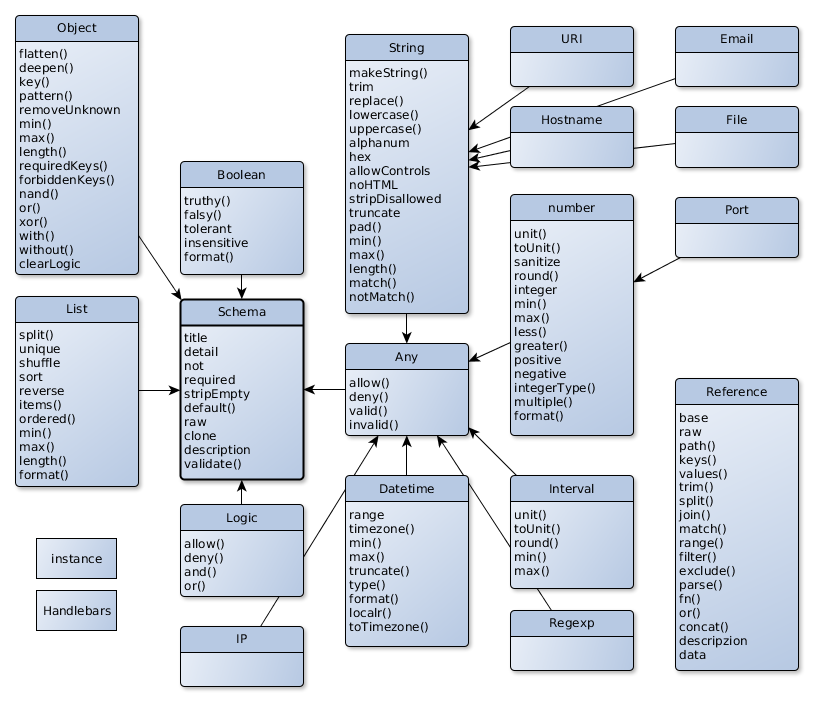
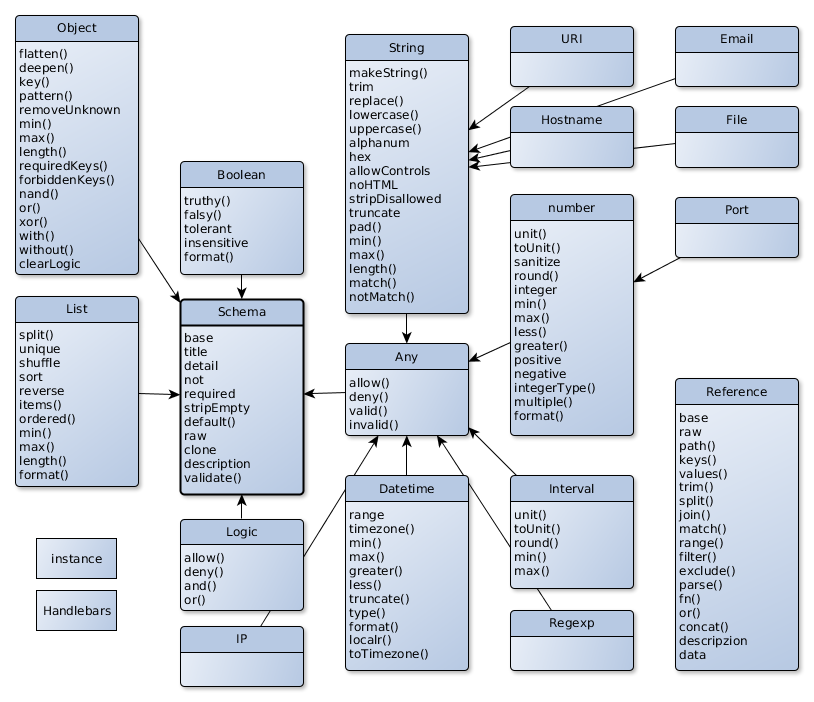
Get base setting in constructor working

diff --git a/test/mocha/Schema.js b/test/mocha/Schema.js
@@ -1,12 +1,16 @@
 // @flow
 import chai from 'chai'
+import Debug from 'debug'
 
 import Schema from '../../src/Schema'
 import StringSchema from '../../src/StringSchema'
 import Reference from '../../src/Reference'
+import SchemaData from '../../src/SchemaData'
+import SchemaError from '../../src/SchemaError'
 import * as helper from './helper'
 
 const expect = chai.expect
+const debug = Debug('test')
 
 // to simplify copy and paste in other Schemas
 const MySchema = Schema
@@ -27,6 +31,65 @@ describe('schema', () => {
     const schema = new MySchema()
     // use schema
     expect(helper.description(schema)).to.equal('It is optional and must not be set.')
+  })
+
+  describe('meta', () => {
+
+    it('should describe error', () => {
+      const schema = new MySchema()
+      const value = 5
+      const data = new SchemaData(value, '/any/path')
+      const err = new SchemaError(schema, data, 'Something is wrong.')
+      const msg = err.text
+      debug(msg)
+      expect(msg).to.equal(`__Something is wrong.__
+
+> Given value was: \`5\`
+> At path: \`/any/path\`
+
+But __Schema__ should be defined with:
+It is optional and must not be set.`)
+    })
+
+    it('should describe error with specific title and detail', () => {
+      const schema = new MySchema()
+        .title('Test')
+        .detail('should be used only for simple testing with')
+      const value = 5
+      const data = new SchemaData(value, '/any/path')
+      const err = new SchemaError(schema, data, 'Something is wrong.')
+      const msg = err.text
+      debug(msg)
+      expect(msg).to.equal(`__Something is wrong.__
+
+> Given value was: \`5\`
+> At path: \`/any/path\`
+
+But __Test__ should be used only for simple testing with:
+It is optional and must not be set.`)
+    })
+
+  })
+
+  describe('base', () => {
+
+    it('should work', () => {
+      const data = 5
+      const schema = new MySchema(data)
+      expect(schema).to.be.an('object')
+      // use schema
+      return helper.validateOk(schema, 3, (res) => {
+        expect(res).deep.equal(data)
+      })
+    })
+
+    it('should describe', () => {
+      const data = 5
+      const schema = new MySchema(data)
+      // use schema
+      expect(helper.description(schema)).to.be.a('string')
+    })
+
   })
 
   describe('required', () => {
@@ -64,7 +127,7 @@ describe('schema', () => {
     it('should describe', () => {
       const schema = new MySchema().required()
       // use schema
-      expect(helper.description(schema)).to.equal('')
+      expect(helper.description(schema)).to.be.a('string')
     })
 
     it('should describe', () => {

diff --git a/src/Schema.js b/src/Schema.js
@@ -6,8 +6,9 @@ import SchemaError from './SchemaError'
 import Reference from './Reference'
 
 class Schema {
-  title: string
-  detail: string
+  _title: string
+  _detail: string
+  base: any
 
   // rules
   _rules: {
@@ -18,9 +19,10 @@ class Schema {
   _setting: { [string]: any } // definition of object
   _check: { [string]: any } // resolved data
 
-  constructor(title?: string, detail?: string) {
-    this.title = title || this.constructor.name.replace(/(.)Schema/, '$1')
-    this.detail = detail || 'should be defined with:'
+  constructor(base?: any) {
+    if (base) this.base = base
+    this._title = this.constructor.name.replace(/(.)Schema/, '$1')
+    this._detail = 'should be defined with'
     this._rules = {
       descriptor: [],
       check: [],
@@ -44,9 +46,19 @@ class Schema {
     const newOptions = Object.assign({}, options, {
       depth: options.depth === null ? null : options.depth - 1,
     })
+    const base = this.base ? `base=${util.inspect(this.base)}` : ''
     const padding = ' '.repeat(5)
     const inner = util.inspect(this._setting, newOptions).replace(/\n/g, `\n${padding}`)
-    return `${options.stylize(this.constructor.name, 'class')} ${inner} `
+    return `${options.stylize(this.constructor.name, 'class')} ${base} ${inner} `
+  }
+
+  title(title: string): this {
+    this._title = title
+    return this
+  }
+  detail(detail: string): this {
+    this._detail = detail
+    return this
   }
 
   // helper methods
@@ -255,6 +267,10 @@ ${(this._setting[name] && this._setting[name].description) || this._setting[name
 
   get description(): string {
     let msg = ''
+    // support base setting
+    if (this.base) {
+      msg += `Use ${this.base instanceof SchemaData ? this.base.value : this.base} as base for this check. `
+    }
     // create message using the different rules
     this._rules.descriptor.forEach((rule) => {
       if (rule) msg += rule.call(this)
@@ -263,10 +279,10 @@ ${(this._setting[name] && this._setting[name].description) || this._setting[name
   }
 
   _validate(value: any, source?: string, options?: Object): Promise<any> {
-    //    console.log('++++++++++++++++++++++++++')
-    //    console.log(value)
-    //    console.log('++++++++++++++++++++++++++')
     const data = value instanceof SchemaData ? value : new SchemaData(value, source, options)
+    if (this.base) { // use base setting if defined
+      data.value = this.base instanceof SchemaData ? this.base.value : this.base
+    }
     let p = Promise.resolve()
     // resolve references in value first
     if (data.value instanceof Reference) {

diff --git a/src/ArraySchema.js b/src/ArraySchema.js
@@ -7,8 +7,8 @@ import type SchemaData from './SchemaData'
 import Reference from './Reference'
 
 class ArraySchema extends Schema {
-  constructor(title?: string, detail?: string) {
-    super(title, detail)
+  constructor(base?: any) {
+    super(base)
     // add check rules
     let raw = this._rules.descriptor.pop()
     this._rules.descriptor.push(

diff --git a/src/LogicSchema.js b/src/LogicSchema.js
@@ -6,8 +6,8 @@ import SchemaError from './SchemaError'
 import SchemaData from './SchemaData'
 
 class LogicSchema extends Schema {
-  constructor(title?: string, detail?: string) {
-    super(title, detail)
+  constructor(base?: any) {
+    super(base)
     // add check rules
     let raw = this._rules.descriptor.pop()
     this._rules.descriptor.push(

diff --git a/src/AnySchema.js b/src/AnySchema.js
@@ -5,8 +5,8 @@ import type SchemaData from './SchemaData'
 import Reference from './Reference'
 
 class AnySchema extends Schema {
-  constructor(title?: string, detail?: string) {
-    super(title, detail)
+  constructor(base?: any) {
+    super(base)
     // add check rules
     let raw = this._rules.descriptor.pop()
     this._rules.descriptor.push(

diff --git a/src/BooleanSchema.js b/src/BooleanSchema.js
@@ -7,8 +7,8 @@ import type SchemaData from './SchemaData'
 import Reference from './Reference'
 
 class BooleanSchema extends Schema {
-  constructor(title?: string, detail?: string) {
-    super(title, detail)
+  constructor(base?: any) {
+    super(base)
     // init settings
     const set = this._setting
     set.truthy = new Set()

diff --git a/src/StringSchema.js b/src/StringSchema.js
@@ -33,8 +33,8 @@ class Replace {
 }
 
 class StringSchema extends AnySchema {
-  constructor(title?: string, detail?: string) {
-    super(title, detail)
+  constructor(base?: any) {
+    super(base)
     // add check rules
     let allow = this._rules.descriptor.pop()
     let raw = this._rules.descriptor.pop()

diff --git a/src/NumberSchema.js b/src/NumberSchema.js
@@ -31,8 +31,8 @@ class Round {
 }
 
 class NumberSchema extends AnySchema {
-  constructor(title?: string, detail?: string) {
-    super(title, detail)
+  constructor(base?: any) {
+    super(base)
     // add check rules
     let allow = this._rules.descriptor.pop()
     let raw = this._rules.descriptor.pop()

diff --git a/src/DateSchema.js b/src/DateSchema.js
@@ -46,8 +46,8 @@ const alias = {
 }
 
 class DateSchema extends AnySchema {
-  constructor(title?: string, detail?: string) {
-    super(title, detail)
+  constructor(base?: any) {
+    super(base)
     this._setting.type = 'datetime'
     // add check rules
     let allow = this._rules.descriptor.pop()

diff --git a/src/ObjectSchema.js b/src/ObjectSchema.js
@@ -19,8 +19,8 @@ class Logic {
 }
 
 class ObjectSchema extends Schema {
-  constructor(title?: string, detail?: string) {
-    super(title, detail)
+  constructor(base?: any) {
+    super(base)
     // add check rules
     let raw = this._rules.descriptor.pop()
     this._rules.descriptor.push(

diff --git a/src/SchemaError.js b/src/SchemaError.js
@@ -20,7 +20,7 @@ class SchemaError extends Error {
 > Given value was: \`${util.inspect(this.data.value)}\`
 > At path: \`${this.data.source}\`
 
-But __${this.schema.title}__ ${this.schema.detail}
+But __${this.schema._title}__ ${this.schema._detail}:
 ${this.schema.description}`
   }
 }

diff --git a/src/PortSchema.js b/src/PortSchema.js
@@ -365,8 +365,8 @@ const portRanges = {
 }
 
 class PortSchema extends NumberSchema {
-  constructor(title?: string, detail?: string) {
-    super(title, detail)
+  constructor(base?: any) {
+    super(base)
     super.integerType('short')
     super.positive()
   }
